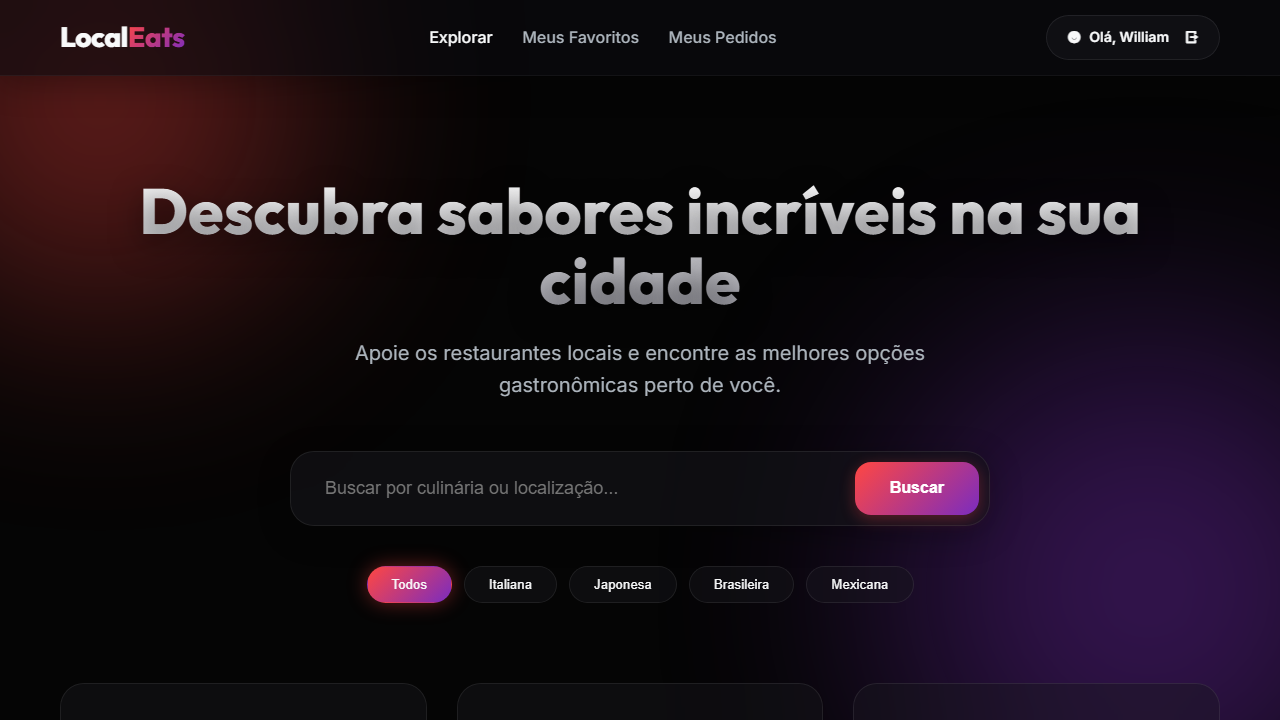
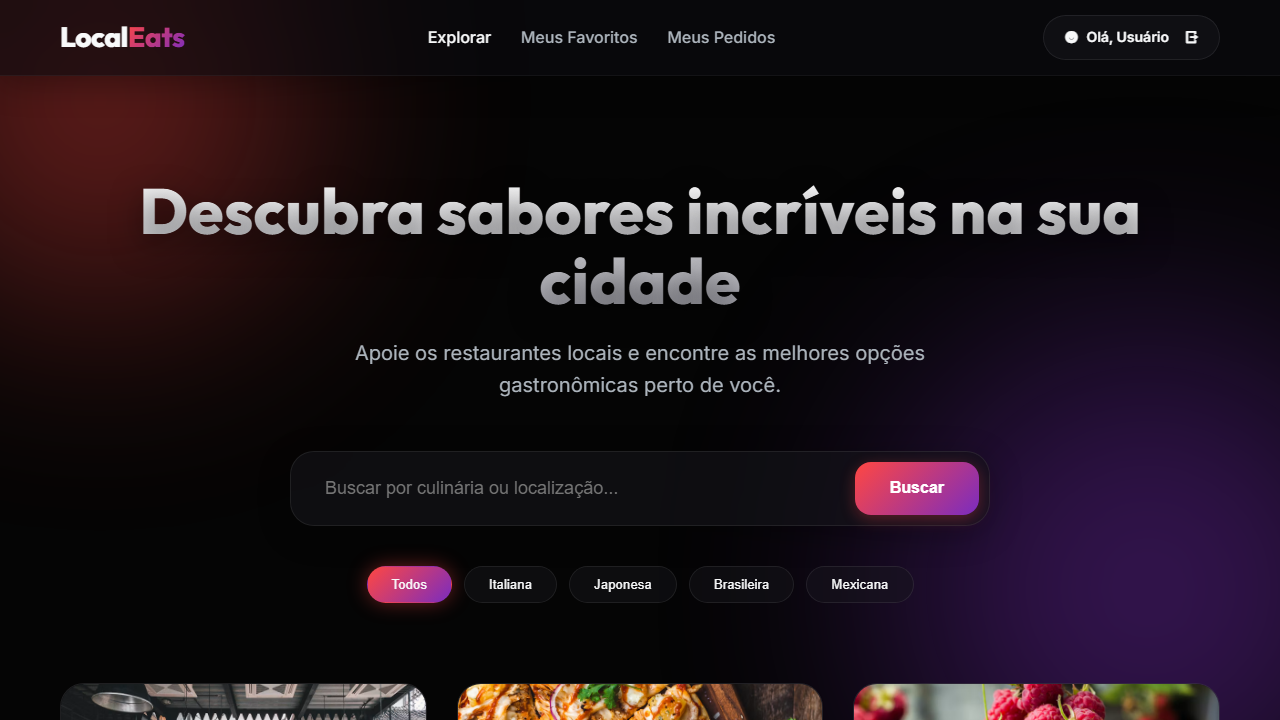
Remove nome do integrante do documento e atualiza relatorio e evidencias

diff --git a/atividades/atividade-04/tests/test_localeats.py b/atividades/atividade-04/tests/test_localeats.py
@@ -11,7 +11,7 @@ import pytest
 from playwright.sync_api import expect
 
 BASE_URL = "https://local-eats-unisenac.vercel.app"
-NOME_USUARIO = "William Leite"
+NOME_USUARIO = "Usuário Teste"
 SENHA_PADRAO = "senha123"
 
 
@@ -55,7 +55,7 @@ def test_cadastro_de_novo_usuario_abre_home_com_restaurantes(page):
 
     assert page.url.endswith("/index.html")
 
-    expect(page.locator("#userBadge")).to_contain_text("Olá, William")
+    expect(page.locator("#userBadge")).to_contain_text("Olá, Usuário")
 
     cards = page.locator(".rest-card")
     expect(cards.first).to_be_visible()
@@ -92,7 +92,7 @@ def test_filtro_por_categoria_japonesa_exibe_somente_restaurantes_japoneses(
     page.locator("#loginForm").get_by_role("button", name="Entrar").click()
 
     page.wait_for_url("**/index.html")
-    expect(page.locator("#userBadge")).to_contain_text("Olá, William")
+    expect(page.locator("#userBadge")).to_contain_text("Olá, Usuário")
 
     # Espera a carga inicial do grid terminar antes de filtrar, para não
     # disputar com a requisição que renderiza a lista completa.

diff --git a/atividades/atividade-04/atividade-04-testes-automatizados.md b/atividades/atividade-04/atividade-04-testes-automatizados.md
@@ -7,9 +7,9 @@
 | Unidade Curricular | Qualidade de Software |
 | Projeto | LocalEats |
 | Modalidade | Individual |
-| Integrante | William Leite |
+| Integrante | Integrante único |
 | Sistema testado | <https://local-eats-unisenac.vercel.app/> |
-| Data da execução | 06/11/2026 |
+| Data da execução | 09/11/2026 |
 | Ferramenta de execução | pytest 8.3.4 + pytest-playwright 0.10.0 + Playwright 1.64.1 (Chromium) |
 
 ## 2. Contexto e objetivo
@@ -159,7 +159,7 @@ Interações e locators usados:
 Assertions (5):
 
 1. a URL final termina em `/index.html`;
-2. o cabeçalho exibe `Olá, William` após o cadastro;
+2. o cabeçalho exibe `Olá, Usuário` após o cadastro;
 3. o primeiro card de restaurante fica visível (verificação usada também como espera da renderização);
 4. o grid apresenta pelo menos 5 restaurantes;
 5. o aviso de carregamento não está mais no DOM.
@@ -172,7 +172,7 @@ Fluxo: criar a conta pela API (preparação), entrar pela interface com e-mail e
 
 Assertions (6):
 
-1. o cabeçalho exibe `Olá, William` após o login;
+1. o cabeçalho exibe `Olá, Usuário` após o login;
 2. o primeiro card da carga inicial fica visível antes do filtro (verificação usada também como espera);
 3. o grid continua com pelo menos um restaurante;
 4. todos os cards exibidos contêm a culinária `Japonesa`;
@@ -202,12 +202,12 @@ Na primeira execução do TF02, o teste falhou com `Page.wait_for_function: Time
 
 | ID | Integrante | Tipo | Comportamento verificado | Arquivo e função |
 | --- | --- | --- | --- | --- |
-| TU01 | William Leite | Unitário | Pedido de R$ 50,00 atinge o valor mínimo | `tests/test_regras_localeats.py::test_pedido_acima_do_valor_minimo_retorna_true` |
-| TU02 | William Leite | Unitário | Pedido de R$ 20,00 não atinge o valor mínimo | `tests/test_regras_localeats.py::test_pedido_abaixo_do_valor_minimo_retorna_false` |
-| TU03 | William Leite | Unitário | Valor negativo gera `ValueError` | `tests/test_regras_localeats.py::test_pedido_com_valor_negativo_gera_value_error` |
-| TU04 | William Leite | Unitário | Fronteira de R$ 29,99, R$ 30,00 e R$ 30,01 | `tests/test_regras_localeats.py::test_fronteira_do_valor_minimo` |
-| TF01 | William Leite | Funcional | Cadastro de usuário e exibição da página inicial | `tests/test_localeats.py::test_cadastro_de_novo_usuario_abre_home_com_restaurantes[chromium]` |
-| TF02 | William Leite | Funcional | Filtro de restaurantes por culinária japonesa | `tests/test_localeats.py::test_filtro_por_categoria_japonesa_exibe_somente_restaurantes_japoneses[chromium]` |
+| TU01 | Integrante único | Unitário | Pedido de R$ 50,00 atinge o valor mínimo | `tests/test_regras_localeats.py::test_pedido_acima_do_valor_minimo_retorna_true` |
+| TU02 | Integrante único | Unitário | Pedido de R$ 20,00 não atinge o valor mínimo | `tests/test_regras_localeats.py::test_pedido_abaixo_do_valor_minimo_retorna_false` |
+| TU03 | Integrante único | Unitário | Valor negativo gera `ValueError` | `tests/test_regras_localeats.py::test_pedido_com_valor_negativo_gera_value_error` |
+| TU04 | Integrante único | Unitário | Fronteira de R$ 29,99, R$ 30,00 e R$ 30,01 | `tests/test_regras_localeats.py::test_fronteira_do_valor_minimo` |
+| TF01 | Integrante único | Funcional | Cadastro de usuário e exibição da página inicial | `tests/test_localeats.py::test_cadastro_de_novo_usuario_abre_home_com_restaurantes[chromium]` |
+| TF02 | Integrante único | Funcional | Filtro de restaurantes por culinária japonesa | `tests/test_localeats.py::test_filtro_por_categoria_japonesa_exibe_somente_restaurantes_japoneses[chromium]` |
 
 ## 7. Relatório da execução
 
@@ -229,7 +229,7 @@ tests/test_regras_localeats.py::test_pedido_com_valor_negativo_gera_value_error 
 tests/test_regras_localeats.py::test_fronteira_do_valor_minimo[29.99-False] PASSED [ 75%]
 tests/test_regras_localeats.py::test_fronteira_do_valor_minimo[30-True] PASSED [ 87%]
 tests/test_regras_localeats.py::test_fronteira_do_valor_minimo[30.01-True] PASSED [100%]
-======================== 8 passed, 1 warning in 10.14s ========================
+======================== 8 passed, 1 warning in 20.45s ========================
 ```
 
 Todos os testes citados na tabela aparecem no relatório, sem aprovações pendentes. O relatório registra 1 warning interno do plugin `pytest-asyncio` (`asyncio.get_event_loop_policy`), sem relação com o código da atividade. Na execução local também aparece um aviso de configuração do mesmo plugin no stderr (`asyncio_default_fixture_loop_scope` não definido), que não entra no resumo do relatório e não afeta o resultado dos testes.
